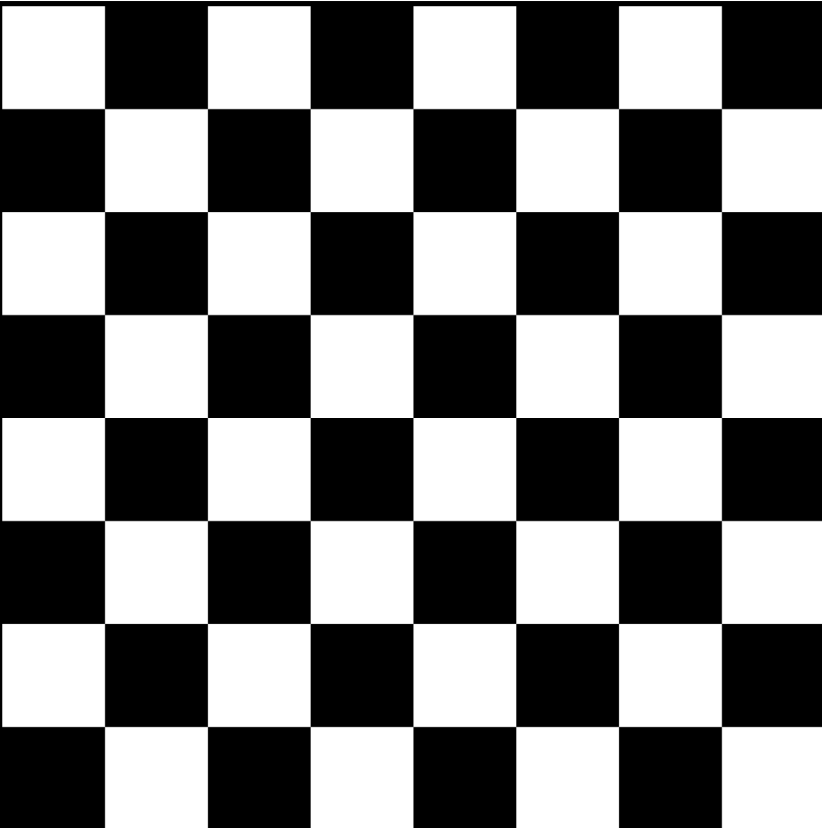
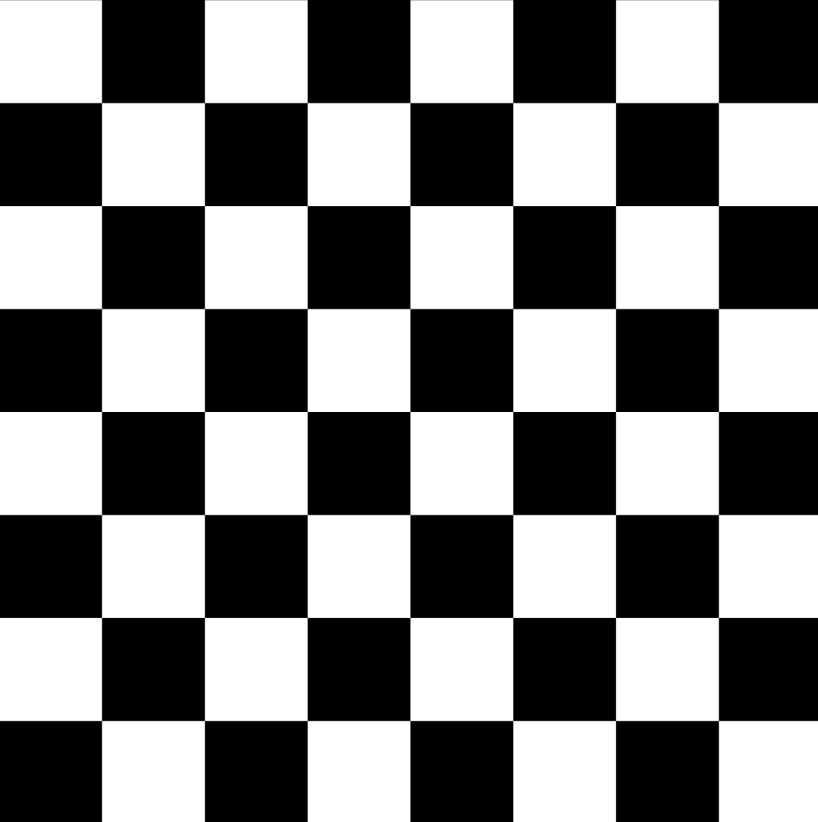
feat: update board size and implement per-player scoring

diff --git a/logic/graphics/layout.py b/logic/graphics/layout.py
@@ -11,16 +11,45 @@ class Layout:
         self._recompute()
 
     def _recompute(self):
+        sm = gfx_config.SIDEBAR_MARGIN
+        sw = gfx_config.SIDEBAR_PX_W
         gap = gfx_config.BOARD_SIDE_GAP
-        available_w = max(1, self.window_px_w - 2 * gfx_config.SIDEBAR_PX_W - 2 * gap)
-        available_h = max(1, self.window_px_h - gfx_config.TOP_BAR_H)
-        self.scale = min(available_w / gfx_config.BOARD_PX_W, available_h / gfx_config.BOARD_PX_H)
-        self.board_px_w = int(gfx_config.BOARD_PX_W * self.scale)
-        self.board_px_h = int(gfx_config.BOARD_PX_H * self.scale)
-        self.board_origin_x = gfx_config.SIDEBAR_PX_W + gap + (available_w - self.board_px_w) // 2
-        self.board_origin_y = gfx_config.TOP_BAR_H + (available_h - self.board_px_h) // 2
-        self.left_sidebar_x = 0
-        self.right_sidebar_x = self.board_origin_x + self.board_px_w + gap
+        lm = gfx_config.BOARD_LABEL_MARGIN
+        ds = gfx_config.BOARD_DISPLAY_SCALE
+        W, H = self.window_px_w, self.window_px_h
+
+        # sidebars pinned to window edges with a margin
+        self.left_sidebar_x  = sm
+        self.right_sidebar_x = W - sm - sw
+
+        # board+label block lives in the middle column
+        mid_x0 = sm + sw + gap          # left edge of middle column
+        mid_x1 = W - sm - sw - gap      # right edge of middle column
+        mid_w  = max(1, mid_x1 - mid_x0)
+        mid_h  = max(1, H - gfx_config.TOP_BAR_H)
+
+        # fit board into middle column, then apply display scale
+        fit_scale = min((mid_w - 2 * lm) / gfx_config.BOARD_PX_W,
+                        (mid_h - 2 * lm) / gfx_config.BOARD_PX_H)
+        self.scale = fit_scale * ds
+        # snap board size to exact multiple of BOARD_COLS/ROWS so cell_size * 8 == board size
+        cell_size = max(1, int(gfx_config.CELL_PX * self.scale))
+        self.cell_size = cell_size
+        self.board_px_w = cell_size * gfx_config.BOARD_COLS
+        self.board_px_h = cell_size * gfx_config.BOARD_ROWS
+
+        # center the board+label block inside the middle column
+        block_w = self.board_px_w + 2 * lm
+        block_h = self.board_px_h + 2 * lm
+        block_x = mid_x0 + (mid_w - block_w) // 2
+        block_y = gfx_config.TOP_BAR_H + (mid_h - block_h) // 2
+
+        # board origin is inset by lm (labels live in the margin)
+        self.board_origin_x = block_x + lm
+        self.board_origin_y = block_y + lm
+        self.label_origin_x = block_x
+        self.label_origin_y = block_y
+
         # legacy alias
         self.sidebar_origin_x = self.right_sidebar_x
 
@@ -29,10 +58,12 @@ class Layout:
         by = screen_y - self.board_origin_y
         if bx < 0 or by < 0 or bx >= self.board_px_w or by >= self.board_px_h:
             return None
-        return int(bx / self.scale), int(by / self.scale)
+        # scale back to unscaled board pixels using actual rendered board size
+        ux = int(bx * gfx_config.BOARD_PX_W / self.board_px_w)
+        uy = int(by * gfx_config.BOARD_PX_H / self.board_px_h)
+        return ux, uy
 
     def cell_to_screen_rect(self, row, col):
-        x = self.board_origin_x + int(col * gfx_config.CELL_PX * self.scale)
-        y = self.board_origin_y + int(row * gfx_config.CELL_PX * self.scale)
-        size = int(gfx_config.CELL_PX * self.scale)
-        return x, y, size, size
+        x = self.board_origin_x + col * self.cell_size
+        y = self.board_origin_y + row * self.cell_size
+        return x, y, self.cell_size, self.cell_size

diff --git a/logic/graphics/board_renderer.py b/logic/graphics/board_renderer.py
@@ -41,7 +41,8 @@ class BoardRenderer:
         self._scaled_board = _recolor_board(resized,
                                             (light[2], light[1], light[0], light[3]),
                                             (dark[2],  dark[1],  dark[0],  dark[3]))
-        cell = max(1, int(gfx_config.CELL_PX * self._layout.scale))
+        # cell size derived from actual rendered board width — single source of truth
+        cell = max(1, self._layout.board_px_w // gfx_config.BOARD_COLS)
         self._scaled_select = self._select_tile.resize(cell, cell)
         self._scaled_legal  = self._legal_tile.resize(cell, cell)
 
@@ -54,3 +55,38 @@ class BoardRenderer:
         for cell in legal_cells:
             x, y, _, _ = self._layout.cell_to_screen_rect(*cell)
             self._scaled_legal.draw_on(canvas, x, y)
+        self._draw_coordinates(canvas)
+
+    def _draw_coordinates(self, canvas):
+        lm = gfx_config.BOARD_LABEL_MARGIN
+        ox = self._layout.board_origin_x
+        oy = self._layout.board_origin_y
+        lox = self._layout.label_origin_x
+        loy = self._layout.label_origin_y
+        # use same cell size as everything else
+        cell = self._layout.board_px_w // gfx_config.BOARD_COLS
+        bw = self._layout.board_px_w
+        bh = self._layout.board_px_h
+        color = (220, 220, 220)
+        font = cv2.FONT_HERSHEY_SIMPLEX
+        fscale = 0.40
+        thickness = 1
+
+        for i in range(8):
+            rank = str(8 - i)
+            cy = oy + i * cell + cell // 2
+            (tw, th), _ = cv2.getTextSize(rank, font, fscale, thickness)
+            ty = cy + th // 2
+            cv2.putText(canvas.img, rank, (lox + (lm - tw) // 2, ty),
+                        font, fscale, color, thickness, cv2.LINE_AA)
+            cv2.putText(canvas.img, rank, (ox + bw + (lm - tw) // 2, ty),
+                        font, fscale, color, thickness, cv2.LINE_AA)
+
+            letter = chr(ord('a') + i)
+            cx = ox + i * cell + cell // 2
+            (tw, th), _ = cv2.getTextSize(letter, font, fscale, thickness)
+            tx = cx - tw // 2
+            cv2.putText(canvas.img, letter, (tx, loy + (lm + th) // 2),
+                        font, fscale, color, thickness, cv2.LINE_AA)
+            cv2.putText(canvas.img, letter, (tx, oy + bh + (lm + th) // 2),
+                        font, fscale, color, thickness, cv2.LINE_AA)

diff --git a/logic/graphics/app.py b/logic/graphics/app.py
@@ -113,24 +113,24 @@ class GraphicsApp(GameObserver):
 
         canvas = GameImg.blank(W, H, (15, 15, 15, 255))
 
-        # top bar: "Black vs White" title, then score below it
-        name_h  = gfx_config.TOP_NAME_H
-        score_h = gfx_config.TOP_SCORE_H
-        self.player_names_panel.render(canvas, 0, 0, W, name_h)
-        self.score_board.render(canvas, 0, name_h, W, score_h)
+        # top bar: name only
+        self.player_names_panel.render(canvas, 0, 0, W, top_h)
 
         # board
         self.board_renderer.render(canvas, selected_cell=self.input_controller.selected)
         self.piece_renderer.render(canvas, self.game, now_ms)
 
-        # black panel (left) — header label + moves log
-        self._render_side_label(canvas, self.player_names_panel.black_name, 0, top_h, sw)
-        self.moves_log_black.render(canvas, 0, top_h, sw, log_h)
+        # black panel (left) — label + score + moves log
+        lx = self.layout.left_sidebar_x
+        self._render_side_label(canvas, self.player_names_panel.black_name, lx, top_h, sw)
+        self._render_score_row(canvas, "b", lx, top_h, sw)
+        self.moves_log_black.render(canvas, lx, top_h + 30, sw, log_h - 30)
 
-        # white panel (right) — header label + moves log
+        # white panel (right) — label + score + moves log
         rx = self.layout.right_sidebar_x
         self._render_side_label(canvas, self.player_names_panel.white_name, rx, top_h, sw)
-        self.moves_log_white.render(canvas, rx, top_h, sw, log_h)
+        self._render_score_row(canvas, "w", rx, top_h, sw)
+        self.moves_log_white.render(canvas, rx, top_h + 30, sw, log_h - 30)
 
         canvas.show(window_name=gfx_config.WINDOW_TITLE)
 
@@ -140,6 +140,20 @@ class GraphicsApp(GameObserver):
         elif self.game.game_over and self._winner_name:
             self.game_over_panel.render(canvas, self._winner_name)
             canvas.show(window_name=gfx_config.WINDOW_TITLE)
+
+    def _render_score_row(self, canvas, color, x, y, width):
+        """Draw 'Score: N' in a light panel row just below the name label."""
+        import cv2
+        row_h = 30
+        # light panel background strip
+        cv2.rectangle(canvas.img, (x, y), (x + width, y + row_h),
+                      (*gfx_config.COLOR_PANEL_BG[:3], 255), -1)
+        score = self.score_board._score[color]
+        label = f"Score: {score}"
+        text_w = len(label) * 10
+        tx = x + (width - text_w) // 2
+        cv2.putText(canvas.img, label, (tx, y + row_h - 8),
+                    cv2.FONT_HERSHEY_SIMPLEX, 0.6, (220, 220, 220, 255), 1, cv2.LINE_AA)
 
     def _render_side_label(self, canvas, label, x, y, width):
         """Draw a gold-bordered dark label ('Black' / 'White') above the moves table."""

diff --git a/logic/graphics/observers/score_board.py b/logic/graphics/observers/score_board.py
@@ -1,6 +1,5 @@
+import cv2
 import config as logic_config
-from graphics import gfx_config
-from graphics.img_provider import GameImg
 from graphics.observers.game_events import GameObserver
 
 
@@ -13,15 +12,12 @@ class ScoreBoard(GameObserver):
         if event.by_piece and event.by_piece.color in self._score:
             self._score[event.by_piece.color] += value
 
-    def render(self, canvas, x, y, width, height):
-        import cv2
-        panel = GameImg.blank(width, height, gfx_config.COLOR_PANEL_BG)
-        total = self._score["w"] - self._score["b"]
-        label = f"Score: {total:+d}" if total != 0 else "Score: Even"
-        text_w = len(label) * 11
-        panel.put_text(label, x=(width - text_w) // 2, y=height - 8,
-                       font_size=0.75, color=gfx_config.COLOR_PANEL_TEXT[:3], thickness=1)
-        # thin separator line at the bottom
-        cv2.line(panel.img, (0, height - 1), (width, height - 1),
-                 (*gfx_config.COLOR_GOLD[:3], 255), 1)
-        panel.draw_on(canvas, x, y)
+    def render_for(self, canvas, color, x, y, width, height):
+        """Render score for a single player (color='w' or 'b') at the given position."""
+        score = self._score[color]
+        label = f"Score: {score}"
+        text_w = len(label) * 10
+        tx = x + (width - text_w) // 2
+        ty = y + height - 8
+        cv2.putText(canvas.img, label, (tx, ty),
+                    cv2.FONT_HERSHEY_SIMPLEX, 0.65, (20, 20, 20, 255), 2, cv2.LINE_AA)

diff --git a/logic/graphics/piece_renderer.py b/logic/graphics/piece_renderer.py
@@ -48,18 +48,14 @@ class PieceRenderer:
         state.update(piece_key, folder, now_ms)
         frame = state.current_frame(now_ms)
 
-        cell_px = gfx_config.CELL_PX * self._layout.scale
-        cell_size = max(1, int(cell_px))
-        sprite_size = max(1, int(cell_px * 0.95))
-        offset = (cell_size - sprite_size) // 2
+        cs = self._layout.cell_size
+        cell_x = self._layout.board_origin_x + int(col * cs)
+        cell_y = self._layout.board_origin_y + int(row * cs)
 
-        x = self._layout.board_origin_x + int(col * cell_px) + offset
-        y = self._layout.board_origin_y + int(row * cell_px) + offset
+        self._draw_cooldown_bar(canvas, piece, now_ms, cell_x, cell_y, cs)
+        frame.resize(cs, cs).draw_on(canvas, cell_x, cell_y)
 
-        self._draw_cooldown_bar(canvas, piece, now_ms, x, y, cell_size, offset)
-        frame.resize(sprite_size, sprite_size).draw_on(canvas, x, y)
-
-    def _draw_cooldown_bar(self, canvas, piece, now_ms, x, y, cell_size, offset):
+    def _draw_cooldown_bar(self, canvas, piece, now_ms, cell_x, cell_y, cell_size):
         """Fill the whole cell with a colored overlay that shrinks downward during rest states."""
         pid = id(piece)
         if piece.state == PieceState.LONG_REST:
@@ -81,8 +77,8 @@ class PieceRenderer:
         if bar_h <= 0:
             return
 
-        cx = x - offset
-        cy = y - offset + (cell_size - bar_h)
+        cx = cell_x
+        cy = cell_y + (cell_size - bar_h)
 
         b, g, r, a = color
         alpha = a / 255.0

diff --git a/logic/graphics/gfx_config.py b/logic/graphics/gfx_config.py
@@ -31,13 +31,16 @@ BOARD_PX_H = CELL_PX * BOARD_ROWS
 # ---------------------------------------------------------------------------
 # Sidebar (score, moves log, player names) layout
 # ---------------------------------------------------------------------------
-SIDEBAR_PX_W = 240
-BOARD_SIDE_GAP = 20     # gap between board and each side panel
-TOP_BAR_H = 80          # name row + score row above the board
-TOP_NAME_H = 44         # height of the "Black vs White" title row
-TOP_SCORE_H = 36        # height of the "Score: Even" row
-WINDOW_PX_W = BOARD_PX_W + 2 * SIDEBAR_PX_W + 2 * BOARD_SIDE_GAP
-WINDOW_PX_H = BOARD_PX_H + TOP_BAR_H
+SIDEBAR_PX_W = 220
+SIDEBAR_MARGIN = 18          # gap between sidebar and window edge
+BOARD_SIDE_GAP = 24          # gap between board label block and sidebar
+BOARD_LABEL_MARGIN = 26      # space reserved on all 4 sides for rank/file labels
+BOARD_DISPLAY_SCALE = 0.80   # shrink the board relative to available space
+TOP_BAR_H = 80               # name row + score row above the board
+TOP_NAME_H = 44              # height of the "Black vs White" title row
+TOP_SCORE_H = 36             # height of the "Score: Even" row
+WINDOW_PX_W = BOARD_PX_W + 2 * SIDEBAR_PX_W + 2 * BOARD_SIDE_GAP + 2 * SIDEBAR_MARGIN + 160
+WINDOW_PX_H = BOARD_PX_H + TOP_BAR_H + 80
 
 MOVES_LOG_H = BOARD_PX_H
 MOVES_LOG_ROW_H = 28

diff --git a/logic/graphics/observers/moves_log.py b/logic/graphics/observers/moves_log.py
@@ -23,7 +23,8 @@ class MovesLog(GameObserver):
     def on_piece_moved(self, event) -> None:
         if event.piece.color != self._color:
             return
-        move = f"{_cell_name(event.origin)}-{_cell_name(event.destination)}"
+        piece_name = event.piece.piece_type.value
+        move = f"{piece_name} {_cell_name(event.origin)}-{_cell_name(event.destination)}"
         self._entries.append((_fmt_time(event.elapsed_ms), move))
 
     def on_piece_captured(self, event) -> None:

diff --git a/logic/config.py b/logic/config.py
@@ -8,7 +8,7 @@ EMPTY_CELL = "."
 # Animation & Timing
 # ============================================================================
 CELL_SIZE = 100
-MOVE_DURATION_PER_CELL = 200
+MOVE_DURATION_PER_CELL = 2000
 JUMP_DURATION = 1000
 
 